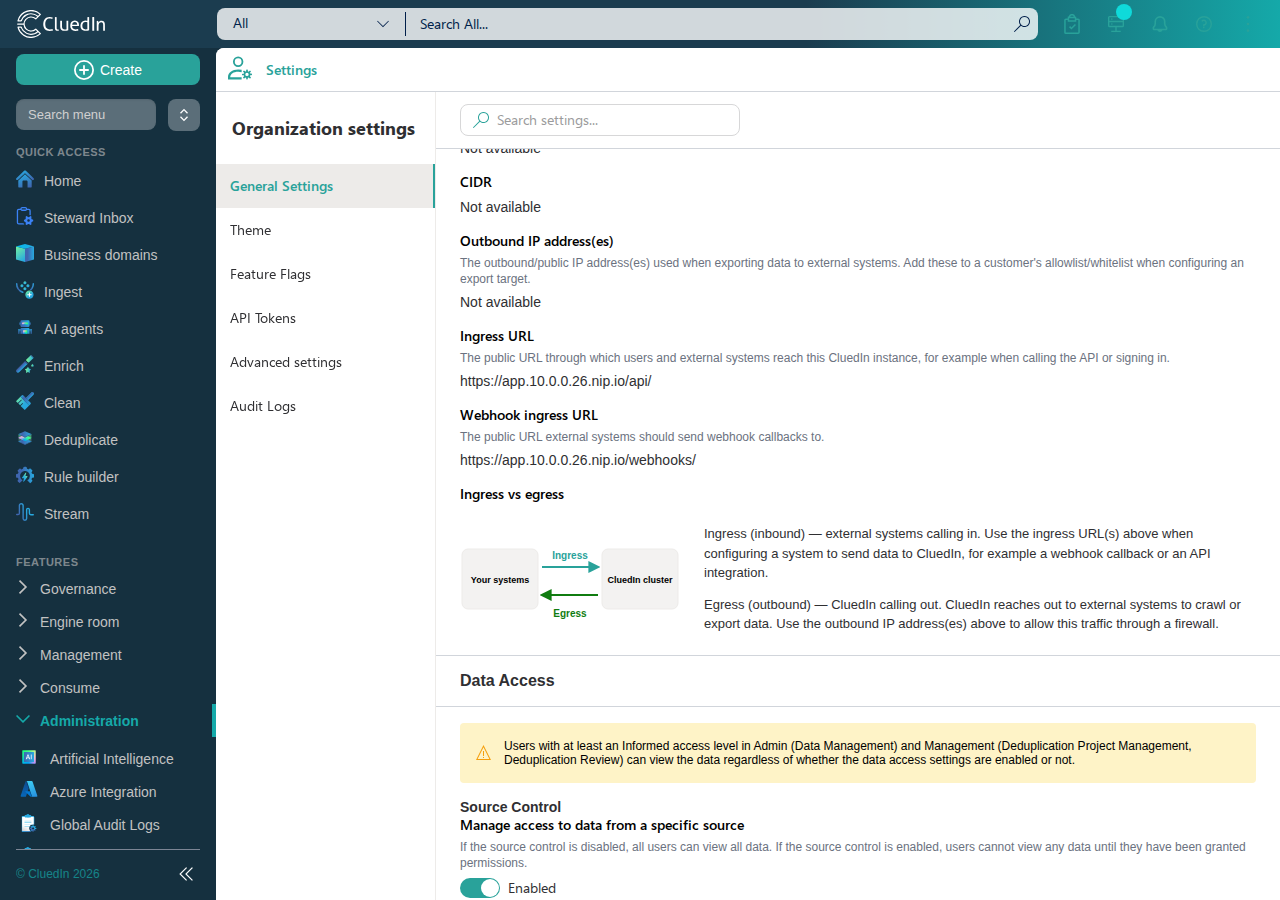
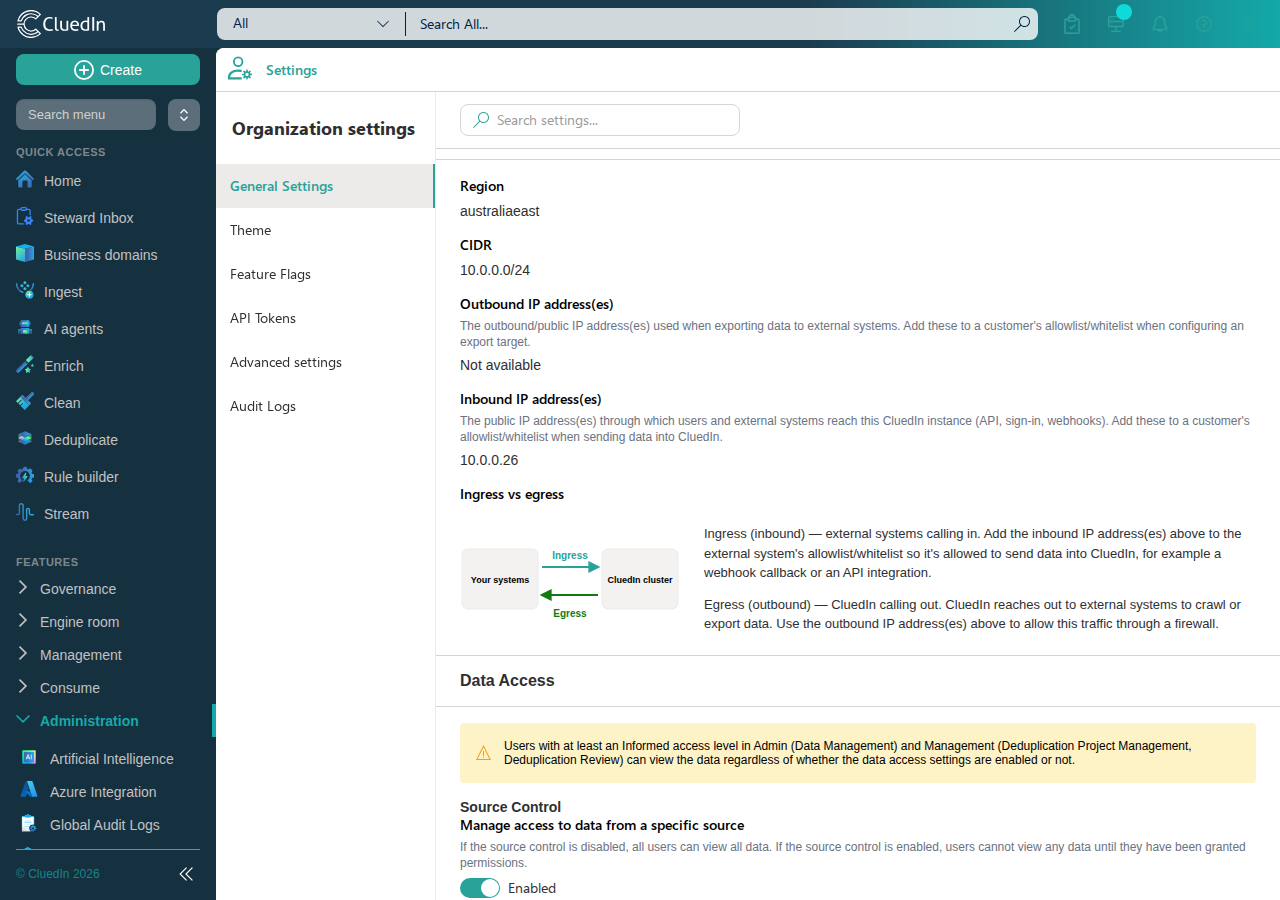
docs: Update Cluster details for real IP/region/CIDR values
Region/CIDR now show real values when running on Azure, and the
ingress field is now an IP address (not a URL) a customer can
actually whitelist. Update wording and refresh the screenshot.

Changed region(s): [[0.3438, 0.1556, 0.9688, 0.5289], [0.5625, 0.5911, 0.9688, 0.6533]]

diff --git a/docs/07-administer/080-general-settings.md b/docs/07-administer/080-general-settings.md
@@ -56,12 +56,12 @@ The **UI preferences** section controls whether users see modules in the side me
 
 ## Cluster details
 
-The **Cluster details** section shows read-only information about your CluedIn cluster's networking, including its region, CIDR, outbound IP address(es), and ingress URLs.
+The **Cluster details** section shows read-only information about your CluedIn cluster's networking, including its region, CIDR, and the IP address(es) to whitelist for outbound and inbound traffic.
 
-![Cluster details section, showing region, CIDR, outbound IP address, ingress URLs, and the ingress-vs-egress diagram]({{ "/assets/images/administration/general-settings/cluster-details-section.png" | relative_url }})
+![Cluster details section, showing region, CIDR, outbound and inbound IP addresses, and the ingress-vs-egress diagram]({{ "/assets/images/administration/general-settings/cluster-details-section.png" | relative_url }})
 
-- **Region** and **CIDR** are only shown when your deployment has been configured with this information; otherwise they show **Not available**.
-- **Outbound IP address(es)** (egress) are the public IP address(es) CluedIn's traffic comes from when it reaches out to external systems, for example to crawl a data source or export to a target. Add these to a customer's allowlist/whitelist so CluedIn's outbound connections aren't blocked — see, for example, the [Snowflake connector](/publish/export-targets/snowflake-connector) documentation. Like Region and CIDR, this shows **Not available** when not configured for your deployment.
-- **Ingress URL** and **Webhook ingress URL** are the public URLs through which users and external systems reach this CluedIn instance — for general API/sign-in access, and for incoming webhook callbacks, respectively. Unlike Region/CIDR/outbound IP, these are always populated for a running deployment.
+- **Region** and **CIDR** come from your cloud provider's instance metadata when running on a supported cloud (Azure), or from explicit configuration when set; otherwise they show **Not available**.
+- **Outbound IP address(es)** (egress) are the public IP address(es) CluedIn's traffic comes from when it reaches out to external systems, for example to crawl a data source or export to a target. Add these to a customer's allowlist/whitelist so CluedIn's outbound connections aren't blocked — see, for example, the [Snowflake connector](/publish/export-targets/snowflake-connector) documentation. This only shows a value when explicitly configured for your deployment; otherwise it shows **Not available**.
+- **Inbound IP address(es)** (ingress) are the public IP address(es) through which users and external systems reach this CluedIn instance — for the API, signing in, and incoming webhook callbacks. Add these to an external system's allowlist/whitelist so it's allowed to send data into CluedIn.
 
 An **Ingress vs egress** diagram summarizes the distinction: ingress is inbound traffic — external systems calling into CluedIn, such as a webhook or an API request; egress is outbound traffic — CluedIn calling out to external systems, such as when crawling or exporting data.
